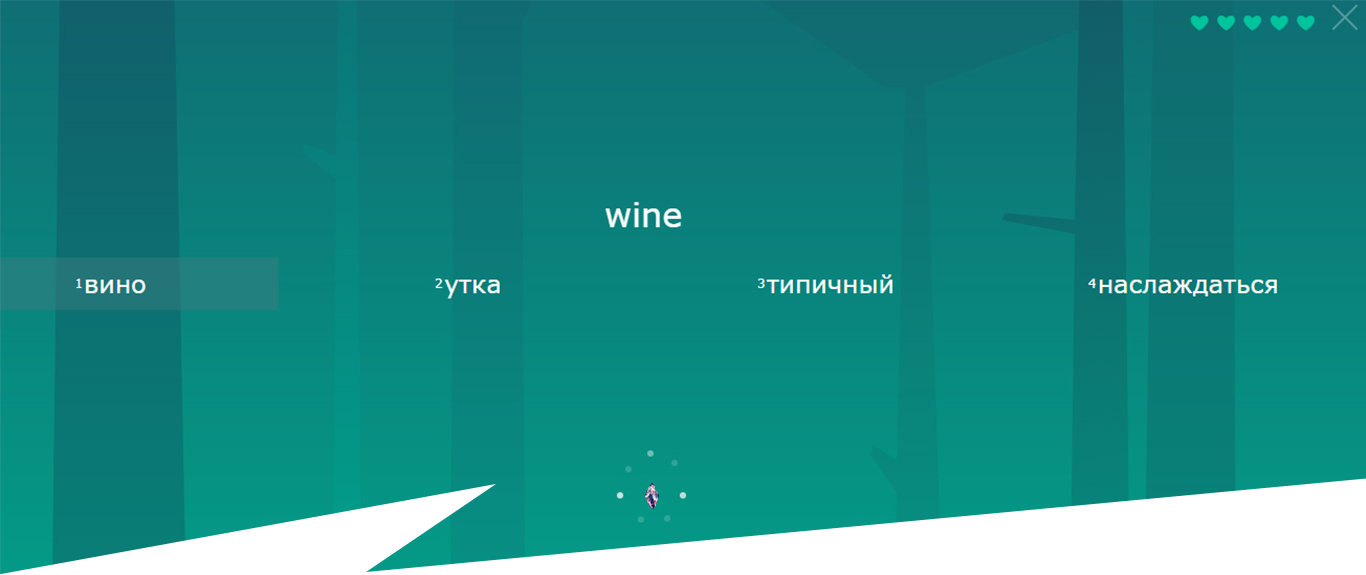
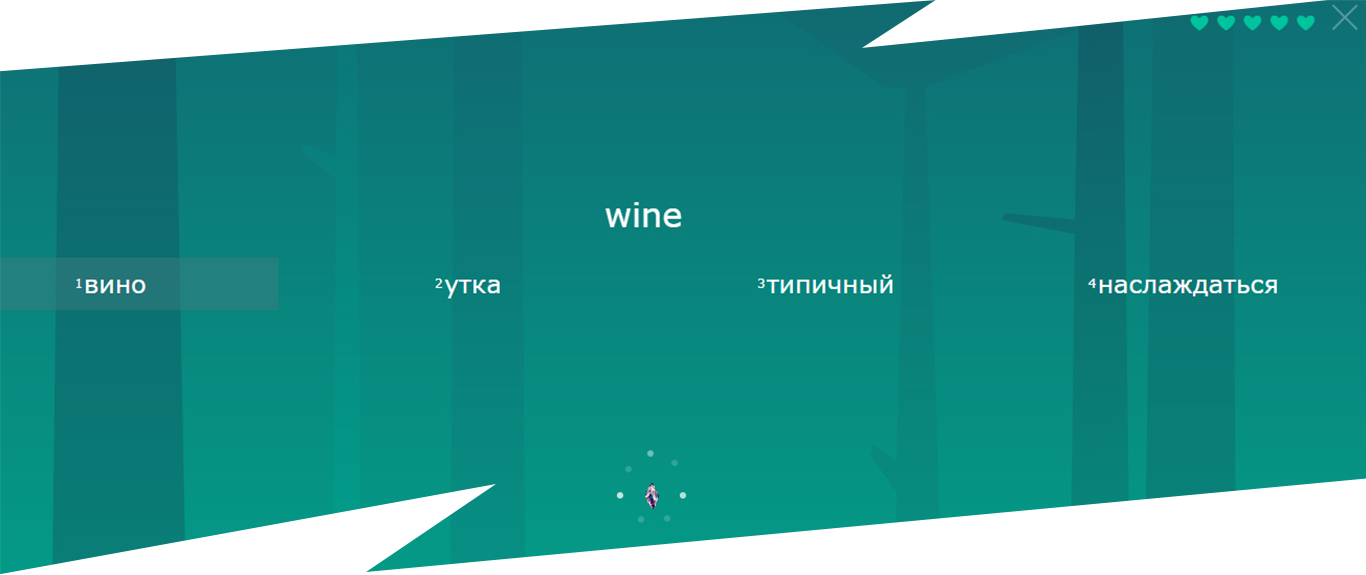
feat: responsive

Changed region(s): [[0.0, 0.0, 0.9531, 0.1478]]

diff --git a/src/pages/promo.html b/src/pages/promo.html
@@ -12,13 +12,16 @@
   <header class="header">
   </header>
   <main class="main">
-    <div>
+    <div class="promo-container">
     <section class="speakit-game">
       <div class="speakit-game__image-block">
-        <img src="../assets/images/speakit-promo.jpg" 
+        <img src="https://i.imgur.com/R7ieUY3.png" 
         alt="SpeakIt game">
       </div>
       <div class="speakit-game__content">
+        <div class="header-line">
+          <img src="https://i.imgur.com/9xcWgtc.png" alt="header-line">
+        </div>
         <h1>SpeakIt game</h1>
         <p>
           SpeakIt - одностраничное приложение, при помощи которого можно прослушать произношение 
@@ -41,14 +44,20 @@
           при клике по слову звучит его произношение, выводятся соответствующие данному слову картинка и перевод.
         </p>
       </div>
+      <div class="line">
+        <img src="https://i.imgur.com/naF7d2h.png" alt="line">
+      </div>
     </section>
 
     <section class="english-puzzle-game">
       <div class="english-puzzle-game__image-block">
-        <img src="https://cdn2.unrealengine.com/fortnite-battle-pass-season-3-outfits-2536x1440-242752324.png" 
+        <img src="https://i.imgur.com/iutIhHT.png" 
         alt="English puzzle game">
       </div>
       <div class="english-puzzle-game__content">
+        <div class="header-line">
+          <img src="https://i.imgur.com/9xcWgtc.png" alt="header-line">
+        </div>
         <h1>English puzzle</h1>
         <p>
           English-puzzle - мини-игра, цель которой собрать предложения из размещённых в 
@@ -66,14 +75,20 @@
           когда все десять предложений собраны, фоновый рисунок карточек со словами образует картину.
         </p>
       </div>
+      <div class="line">
+        <img src="https://i.imgur.com/naF7d2h.png" alt="line">
+      </div>
     </section>
 
     <section class="savannah-game">
       <div class="savannah-game__image-block">
-        <img src="https://cdn2.unrealengine.com/fortnite-battle-pass-season-3-outfits-2536x1440-242752324.png" 
+        <img src="https://i.imgur.com/nVBdEUU.png" 
         alt="Savannah game">
       </div>
       <div class="savannah-game__content">
+        <div class="header-line">
+          <img src="https://i.imgur.com/9xcWgtc.png" alt="header-line">
+        </div>
         <h1>Саванна</h1>
         <p>
           Саванна - мини-игра, цель которой выбрать верный вариант перевода английского слова.
@@ -82,14 +97,20 @@
           Чем больше правильных ответов, тем больше становится кристалл, который показывает успех в изучении слов.
         </p>
       </div>
+      <div class="line">
+        <img src="https://i.imgur.com/naF7d2h.png" alt="line">
+      </div>
     </section>
 
     <section class="audiocall-game">
       <div class="audiocall-game__image-block">
-        <img src="https://cdn2.unrealengine.com/fortnite-battle-pass-season-3-outfits-2536x1440-242752324.png" 
+        <img src="https://i.imgur.com/e6Q3EOu.png" 
         alt="Audiocall game">
       </div>
       <div class="audiocall-game__content">
+        <div class="header-line">
+          <img src="https://i.imgur.com/9xcWgtc.png" alt="header-line">
+        </div>
         <h1>Аудиовызов</h1>
         <p>
           Аудиовызов - мини-игра, в которой развивается понимание на слух английских слов.
@@ -105,14 +126,20 @@
           так и нажатием клавиши Enter
         </p>
       </div>
+      <div class="line">
+        <img src="https://i.imgur.com/naF7d2h.png" alt="line">
+      </div>
     </section>
 
     <section class="sprint-game">
       <div class="sprint-game__image-block">
-        <img src="https://cdn2.unrealengine.com/fortnite-battle-pass-season-3-outfits-2536x1440-242752324.png" 
-        alt="Audiocall game">
+        <img src="https://i.imgur.com/EErCljh.png" 
+        alt="Sprint game">
       </div>
       <div class="sprint-game__content">
+        <div class="header-line">
+          <img src="https://i.imgur.com/9xcWgtc.png" alt="header-line">
+        </div>
         <h1>Спринт</h1>
         <p>
           В ходе игры появляется слово на английском языке и перевод,
@@ -127,14 +154,20 @@
           начисляется только 10 баллов.
         </p>
       </div>
+      <div class="line">
+        <img src="https://i.imgur.com/naF7d2h.png" alt="line">
+      </div>
     </section>
 
     <section class="findWord-game">
       <div class="findWord-game__image-block">
-        <img src="https://cdn2.unrealengine.com/fortnite-battle-pass-season-3-outfits-2536x1440-242752324.png" 
+        <img src="https://i.imgur.com/axwREtI.png" 
         alt="Find the word game">
       </div>
       <div class="findWord-game__content">
+        <div class="header-line">
+          <img src="https://i.imgur.com/9xcWgtc.png" alt="header-line">
+        </div>
         <h1>Найди слово</h1>
         <p>
           Игра "Найди слово" - это приложение, при помощи которого можно не только
@@ -158,6 +191,9 @@
           снимается одна "жизнь". Игра продолжается до тех пор, пока все слова не будут 
           найдены или не останется  "жизней".
         </p>
+      </div>
+      <div class="line">
+        <img src="https://i.imgur.com/naF7d2h.png" alt="line">
       </div>
     </section>
     </div>

diff --git a/src/sass/promo-page.scss b/src/sass/promo-page.scss
@@ -1,3 +1,9 @@
+.promo-container {
+  width: 100%;
+  min-width: 100%;
+  overflow: hidden;
+  box-sizing: border-box;
+}
 .speakit-game,
 .english-puzzle-game,
 .savannah-game,
@@ -7,7 +13,10 @@
   position: relative;
   z-index: 1;
 
-  width: 100vw;
+  box-sizing: border-box;
+  width: 100%;
+  padding-bottom: 18vh;
+  overflow: hidden;
   &__image-block {
     height: unset;
     min-height: unset;
@@ -20,12 +29,14 @@
     position: relative;
     z-index: 1;
 
-    margin: 3% auto 0 auto;
+    margin: 12vh auto 0 auto;
 
     text-align: center;
     color: #000000;
   }
   &__content h1 {
+    padding-bottom: 10vh;
+
     font-weight: 700;
     font-size: 4vw;
     font-family: "Balsamiq Sans", cursive;
@@ -33,17 +44,42 @@
     text-transform: uppercase;
   }
   &__content p {
-    width: 30em;
+    width: 80vw;
     margin: 3% auto 0 auto;
 
     font-weight: 700;
-    font-size: 2vw;
+    font-size: 1.2vw;
     line-height: 1.25;
     font-family: "Balsamiq Sans", cursive;
     text-transform: uppercase;
   }
 }
+.header-line {
+  position: absolute;
+  top: -120px;
+  right: 0;
+  left: 0;
+  z-index: -1;
+
+  text-align: center;
+}
+.header-line img {
+  width: 75vw;
+  max-width: 1010px;
+}
+.line {
+  margin-top: 9vh;
+
+  text-align: center;
+}
+.line img {
+  width: 100%;
+  height: 14vh;
+}
 @media only screen and (max-width: 1199px) {
+  .header-line {
+    top: -102px;
+  }
   .speakit-game__content p,
   .english-puzzle-game__content p,
   .savannah-game__content p,
@@ -59,6 +95,24 @@
   .sprint-game__content h1,
   .findWord-game__content h1 {
     font-size: 3em;
+  }
+}
+@media only screen and (max-width: 1035px) {
+  .header-line {
+    top: -81px;
+  }
+}
+@media only screen and (max-width: 810px) {
+  .speakit-game__content h1,
+  .english-puzzle-game__content h1,
+  .savannah-game__content h1,
+  .audiocall-game__content h1,
+  .sprint-game__content h1,
+  .findWord-game__content h1 {
+    font-size: 1.9em;
+  }
+  .header-line {
+    top: -65px;
   }
 }
 @media only screen and (max-width: 767px) {
@@ -80,6 +134,35 @@
   .audiocall-game__content h1,
   .sprint-game__content h1,
   .findWord-game__content h1 {
-    font-size: 2em;
+    font-size: 1.4em;
   }
 }
+@media only screen and (max-width: 634px) {
+  .header-line {
+    top: -47px;
+  }
+}
+@media only screen and (min-width: 460px) and (max-width: 482px) {
+  .speakit-game__content h1,
+  .english-puzzle-game__content h1,
+  .savannah-game__content h1,
+  .audiocall-game__content h1,
+  .sprint-game__content h1,
+  .findWord-game__content h1 {
+    font-size: 1.5em;
+  }
+}
+@media only screen and (max-width: 482px) {
+  .header-line {
+    top: -27px;
+  }
+  .speakit-game__content h1,
+  .english-puzzle-game__content h1,
+  .savannah-game__content h1,
+  .audiocall-game__content h1,
+  .sprint-game__content h1,
+  .findWord-game__content h1 {
+    font-size: 1em;
+  }
+}
+
